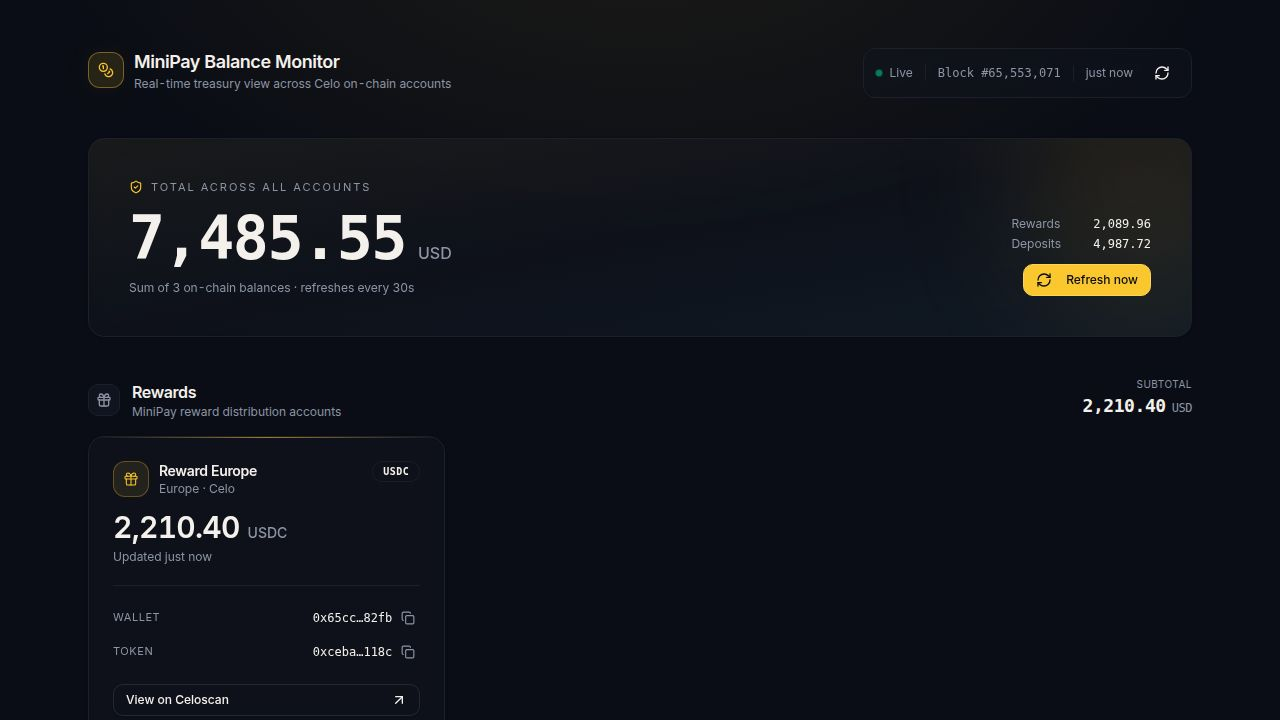
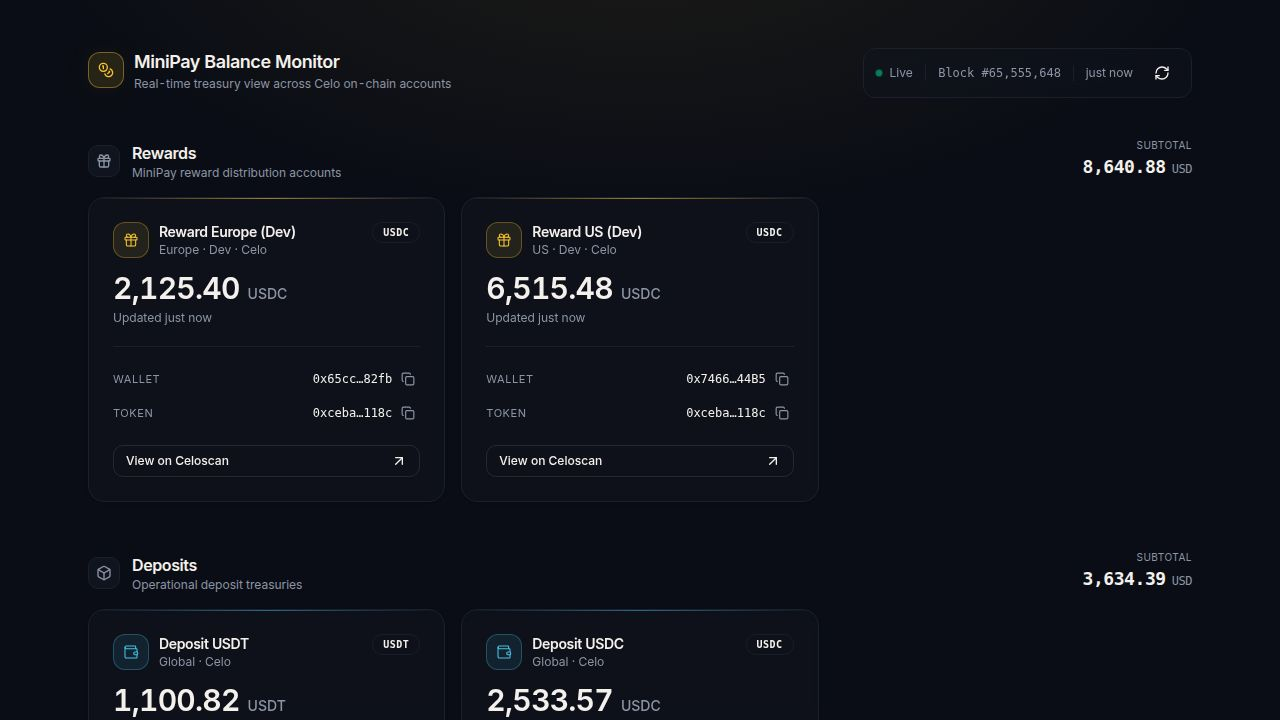
Remove the total account balance display
Remove the grand total card component and associated calculations from the dashboard interface.

Replit-Commit-Author: Agent
Replit-Commit-Session-Id: 9cdf5fd0-87f4-4b60-858d-6f250c0e5de6
Replit-Commit-Checkpoint-Type: full_checkpoint
Replit-Commit-Event-Id: ca0c422e-98fe-4c60-a701-e5d8658ad131
Replit-Commit-Screenshot-Url: https://storage.googleapis.com/screenshot-production-us-central1/d14ea624-6fab-4767-ae09-300bb61d28f0/9cdf5fd0-87f4-4b60-858d-6f250c0e5de6/rOefp0z
Replit-Helium-Checkpoint-Created: true

diff --git a/artifacts/minipay-monitor/src/App.tsx b/artifacts/minipay-monitor/src/App.tsx
@@ -1,4 +1,4 @@
-import { useEffect, useMemo, useState } from "react";
+import { useEffect, useState } from "react";
 import {
   QueryClient,
   QueryClientProvider,
@@ -14,7 +14,6 @@ import {
   Copy,
   Gift,
   RefreshCw,
-  ShieldCheck,
   Wallet,
   AlertTriangle,
 } from "lucide-react";
@@ -370,14 +369,6 @@ function Dashboard() {
   useTicker(1000);
   const now = Date.now();
 
-  const grandTotal = useMemo(() => {
-    return balances.reduce((sum, q) => {
-      const data = q.data as BalanceResult | undefined;
-      return sum + (data?.numeric ?? 0);
-    }, 0);
-  }, [balances]);
-
-  const allLoading = balances.every((q) => q.isLoading && !q.data);
   const anyFetching = balances.some((q) => q.isFetching) || blockQuery.isFetching;
   const lastUpdated = Math.max(
     0,
@@ -457,94 +448,6 @@ function Dashboard() {
             </div>
           </div>
         </header>
-
-        {/* Grand total */}
-        <motion.div
-          initial={{ opacity: 0, y: 12 }}
-          animate={{ opacity: 1, y: 0 }}
-          transition={{ duration: 0.5, ease: [0.22, 1, 0.36, 1] }}
-        >
-          <Card className="relative mb-10 overflow-hidden border-card-border bg-card/60 backdrop-blur-sm">
-            <div className="pointer-events-none absolute inset-0 bg-gradient-to-br from-primary/5 via-transparent to-accent/5" />
-            <div className="pointer-events-none absolute -right-20 -top-20 h-64 w-64 rounded-full bg-primary/10 blur-3xl" />
-            <CardContent className="relative px-6 py-8 md:px-10 md:py-10">
-              <div className="flex flex-col gap-6 md:flex-row md:items-end md:justify-between">
-                <div className="space-y-3">
-                  <div className="flex items-center gap-2">
-                    <ShieldCheck className="h-3.5 w-3.5 text-primary" />
-                    <span className="text-[11px] uppercase tracking-[0.18em] text-muted-foreground">
-                      Total Across All Accounts
-                    </span>
-                  </div>
-                  {allLoading ? (
-                    <Skeleton className="h-14 w-72" />
-                  ) : (
-                    <div className="flex items-baseline gap-3">
-                      <span className="font-mono text-5xl font-semibold tracking-tight md:text-6xl">
-                        <AnimatedNumber value={grandTotal} fractionDigits={2} />
-                      </span>
-                      <span className="text-base font-medium text-muted-foreground">
-                        USD
-                      </span>
-                    </div>
-                  )}
-                  <p className="text-xs text-muted-foreground">
-                    Sum of {BALANCE_CONFIGS.length} on-chain balances · refreshes every 30s
-                  </p>
-                </div>
-
-                <div className="flex flex-col gap-3 md:items-end">
-                  <div className="grid grid-cols-2 gap-x-6 gap-y-1 text-xs">
-                    <span className="text-muted-foreground">Rewards</span>
-                    <span className="text-right font-mono tabular-nums">
-                      <AnimatedNumber
-                        value={rewards.reduce((s, cfg) => {
-                          const idx = BALANCE_CONFIGS.findIndex(
-                            (c) => c.id === cfg.id,
-                          );
-                          return (
-                            s +
-                            ((balances[idx]?.data as BalanceResult | undefined)
-                              ?.numeric ?? 0)
-                          );
-                        }, 0)}
-                      />
-                    </span>
-                    <span className="text-muted-foreground">Deposits</span>
-                    <span className="text-right font-mono tabular-nums">
-                      <AnimatedNumber
-                        value={deposits.reduce((s, cfg) => {
-                          const idx = BALANCE_CONFIGS.findIndex(
-                            (c) => c.id === cfg.id,
-                          );
-                          return (
-                            s +
-                            ((balances[idx]?.data as BalanceResult | undefined)
-                              ?.numeric ?? 0)
-                          );
-                        }, 0)}
-                      />
-                    </span>
-                  </div>
-                  <Button
-                    onClick={handleRefresh}
-                    disabled={anyFetching}
-                    size="sm"
-                    className="font-medium"
-                  >
-                    <RefreshCw
-                      className={cn(
-                        "mr-1.5 h-3.5 w-3.5",
-                        anyFetching && "animate-spin",
-                      )}
-                    />
-                    Refresh now
-                  </Button>
-                </div>
-              </div>
-            </CardContent>
-          </Card>
-        </motion.div>
 
         {/* Sections */}
         <div className="space-y-12">
